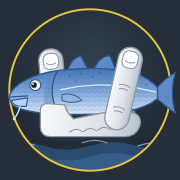
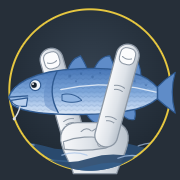
Hold the cod between two fingers in the club badge
Redraw the hand as two fingers in a V rising out of the sea, one behind
the fish and one in front, with the other fingers curled and the thumb
folded across. App icons re-rendered to match.

Changed region(s): [[0.1944, 0.2222, 0.8056, 0.9722], [0.1944, 0.25, 0.3889, 0.4167]]

diff --git a/index.html b/index.html
@@ -69,7 +69,7 @@ button, input, select { font: inherit; color: inherit; }
 .badge-sub { font-family: var(--font-display); font-weight: 700; font-size: 17px; letter-spacing: 6px; fill: #d6dce3; }
 
 /* The cod in the badge wriggles in the hand and blows bubbles */
-.grip-fish { transform-box: fill-box; transform-origin: 70% 55%; animation: wriggle 1.7s ease-in-out infinite alternate; }
+.grip-fish { transform-box: fill-box; transform-origin: 50% 55%; animation: wriggle 1.7s ease-in-out infinite alternate; }
 .jaw { transform-box: fill-box; transform-origin: 100% 0%; animation: gulp 1.7s ease-in-out infinite alternate; }
 .bubble { fill: none; stroke: #a9c4e8; stroke-width: 1.6; opacity: 0; transform-box: fill-box; transform-origin: center; animation: rise 3.4s ease-in infinite; }
 .bubble.b2 { animation-delay: 1.1s; } .bubble.b3 { animation-delay: 2.2s; }
@@ -219,7 +219,7 @@ td.cell .dropped { text-decoration: line-through; opacity: .5; }
     <div class="swimmer near"><div class="bob"></div></div>
   </div>
   <div class="mast-in">
-    <svg class="badge" id="badge" viewBox="0 0 320 320" role="img" aria-label="Easington Fishing Club badge: a cod held between finger and thumb above the sea">
+    <svg class="badge" id="badge" viewBox="0 0 320 320" role="img" aria-label="Easington Fishing Club badge: a cod held between two fingers of a hand rising from the sea">
   <defs>
     <linearGradient id="codSkin" x1="0" y1="0" x2="0" y2="1">
       <stop offset="0" stop-color="#4675b6"/><stop offset=".5" stop-color="#7ea7da"/><stop offset=".8" stop-color="#b9d0ee"/><stop offset="1" stop-color="#dce8f6"/>
@@ -250,11 +250,12 @@ td.cell .dropped { text-decoration: line-through; opacity: .5; }
   </g>
   <circle cx="160" cy="160" r="104" fill="none" stroke="#e6c740" stroke-width="2.5"/>
   <g transform="translate(160 166) scale(.82) translate(-182 -142)">
-    <!-- thumb, behind the fish -->
-    <g transform="rotate(-5 125 140)">
-      <rect x="106" y="70" width="38" height="112" rx="18" fill="url(#skin)" stroke="#8b96a3" stroke-width="2"/>
-      <rect x="113" y="77" width="24" height="25" rx="9" fill="#fbfcfd" stroke="#8b96a3" stroke-width="1.6"/>
-      <path d="M117 92 q8 5 16 0" fill="none" stroke="#8b96a3" stroke-width="1.4"/>
+    <!-- back finger: behind the fish -->
+    <g transform="translate(158 214) rotate(-16)">
+      <rect x="-18" y="-150" width="36" height="162" rx="18" fill="url(#skin)" stroke="#8b96a3" stroke-width="2"/>
+      <rect x="-12" y="-144" width="24" height="26" rx="9" fill="#fbfcfd" stroke="#8b96a3" stroke-width="1.6"/>
+      <path d="M-8 -129 q8 5 16 0" fill="none" stroke="#8b96a3" stroke-width="1.4"/>
+      <path d="M-9 -82 q9 -4 18 0 M-7 -76 q7 -3 14 0 M-9 -33 q9 -4 18 0 M-7 -27 q7 -3 14 0" fill="none" stroke="#8b96a3" stroke-width="1.4" stroke-linecap="round"/>
     </g>
 
     <!-- the cod -->
@@ -289,15 +290,24 @@ td.cell .dropped { text-decoration: line-through; opacity: .5; }
     <circle class="bubble b2" cx="46" cy="136" r="3"/>
     <circle class="bubble b3" cx="52" cy="142" r="5"/>
 
-    <!-- fist and finger, in front of the fish -->
-    <path d="M104 166 Q104 156 116 156 L142 158 Q146 172 156 180 L226 166 L254 172 Q264 178 260 192 Q254 208 236 208 L120 208 Q104 208 104 192 Z" fill="url(#skin)" stroke="#8b96a3" stroke-width="2" stroke-linejoin="round"/>
-    <path d="M150 201 q10 -9 20 -1 M172 200 q10 -9 20 -1 M194 198 q10 -9 20 -1" fill="none" stroke="#8b96a3" stroke-width="1.6" stroke-linecap="round"/>
-    <g transform="rotate(13 232 140)">
-      <rect x="214" y="66" width="38" height="132" rx="19" fill="url(#skin)" stroke="#8b96a3" stroke-width="2"/>
-      <rect x="221" y="72" width="24" height="27" rx="9" fill="#fbfcfd" stroke="#8b96a3" stroke-width="1.6"/>
-      <path d="M225 88 q8 5 16 0" fill="none" stroke="#8b96a3" stroke-width="1.4"/>
-      <path d="M224 128 q9 -4 18 0 M226 134 q7 -3 14 0 M224 164 q9 -4 18 0 M226 170 q7 -3 14 0" fill="none" stroke="#8b96a3" stroke-width="1.4" stroke-linecap="round"/>
+    <!-- the hand rising out of the sea: palm with the other fingers curled and the thumb folded across -->
+    <path d="M136 214 C134 196 146 186 162 186 L218 186 C234 186 244 198 242 214 C240 232 230 246 224 266 L156 266 C150 246 138 232 136 214 Z" fill="url(#skin)" stroke="#8b96a3" stroke-width="2" stroke-linejoin="round"/>
+    <path d="M168 200 q8 -8 16 -1 M186 199 q8 -8 16 -1 M204 198 q8 -8 16 0" fill="none" stroke="#8b96a3" stroke-width="1.6" stroke-linecap="round"/>
+    <path d="M140 216 C160 208 186 206 206 212 C214 215 214 224 206 226 C186 230 160 230 142 228 Z" fill="url(#skin)" stroke="#8b96a3" stroke-width="1.8" stroke-linejoin="round"/>
+    <rect x="194" y="212" width="14" height="12" rx="5" fill="#fbfcfd" stroke="#8b96a3" stroke-width="1.3"/>
+
+    <!-- front finger: in front of the fish, so the cod sits between the two -->
+    <g transform="translate(206 212) rotate(15)">
+      <rect x="-18" y="-154" width="36" height="166" rx="18" fill="url(#skin)" stroke="#8b96a3" stroke-width="2"/>
+      <rect x="-12" y="-148" width="24" height="26" rx="9" fill="#fbfcfd" stroke="#8b96a3" stroke-width="1.6"/>
+      <path d="M-8 -133 q8 5 16 0" fill="none" stroke="#8b96a3" stroke-width="1.4"/>
+      <path d="M-9 -85 q9 -4 18 0 M-7 -79 q7 -3 14 0 M-9 -34 q9 -4 18 0 M-7 -28 q7 -3 14 0" fill="none" stroke="#8b96a3" stroke-width="1.4" stroke-linecap="round"/>
     </g>
+  </g>
+  <g clip-path="url(#discClip)">
+    <path d="M40 248 Q70 238 100 248 T160 248 T220 248 T280 248 V280 H40 Z" fill="#2a4a6e" opacity=".92"/>
+    <path d="M40 258 Q70 249 100 258 T160 258 T220 258 T280 258 V280 H40 Z" fill="#355d88"/>
+    <path d="M60 248 Q78 241 96 247 M124 244 Q140 238 156 244 M196 248 Q214 241 232 247" fill="none" stroke="#a9c4e8" stroke-width="1.6" stroke-linecap="round" opacity=".75"/>
   </g>
     </svg>
     <div class="mast-text">

diff --git a/sw.js b/sw.js
@@ -1,6 +1,6 @@
 // Keeps the app working with a poor signal on the beach: always tries the
 // network first for fresh results, and falls back to the last copy saved.
-const CACHE = "esac-v3";
+const CACHE = "esac-v4";
 const SHELL = ["./", "index.html", "manifest.webmanifest", "icon.svg", "icon-192.png", "icon-512.png", "apple-touch-icon.png", "data/seasons.json", "data/2026-27.json", "data/2025-26.json"];
 
 self.addEventListener("install", e => {
